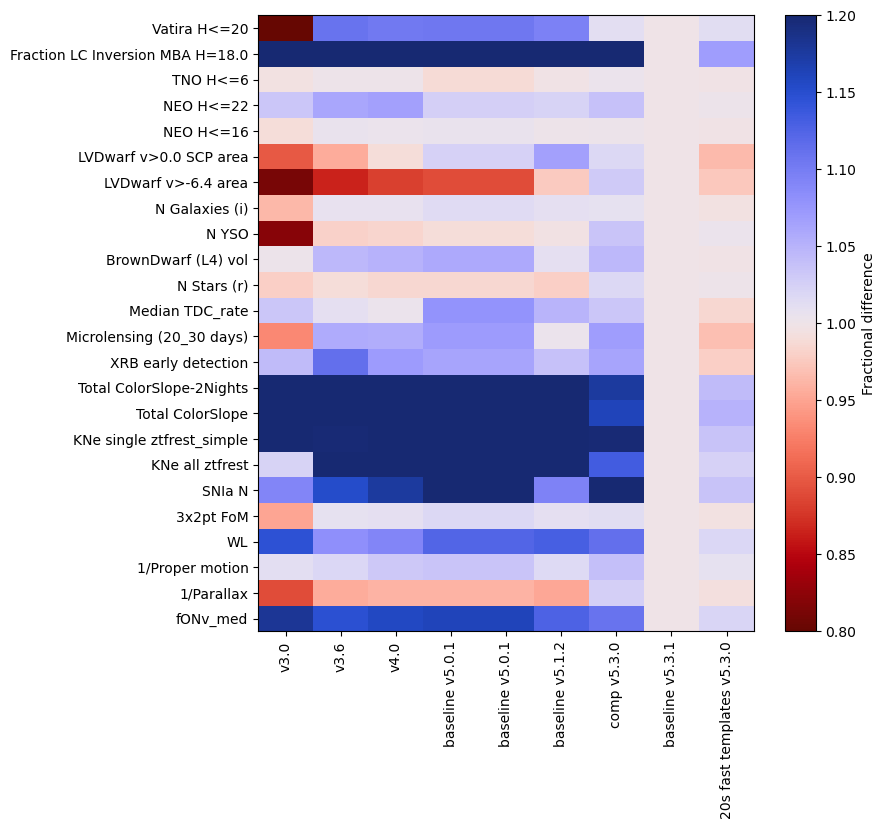
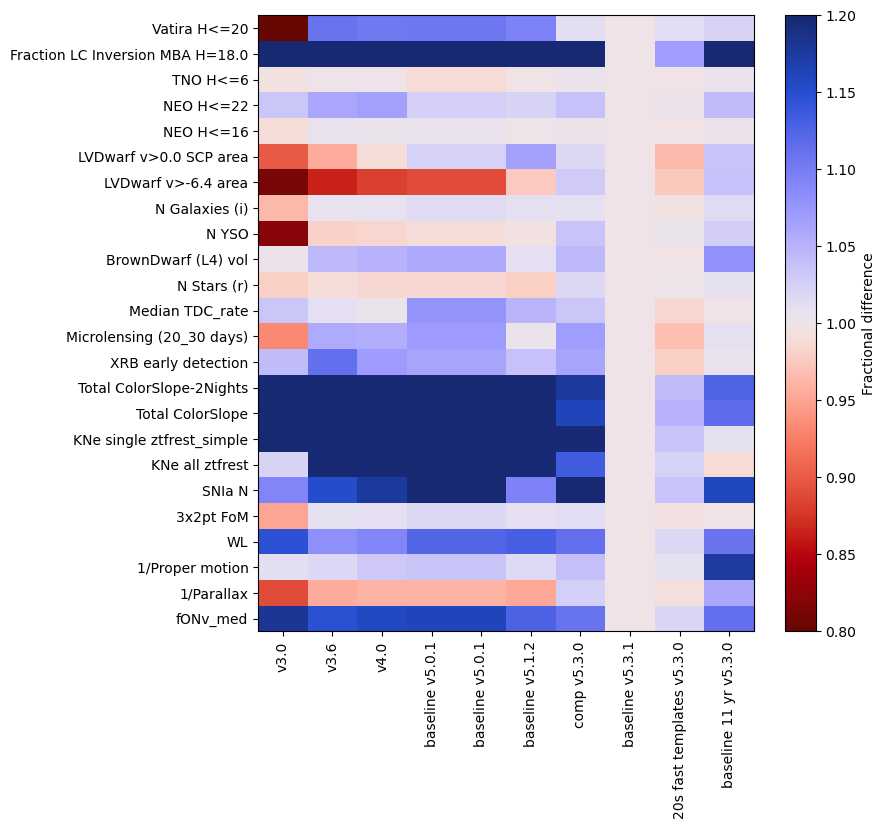
Updates from Overleaf

diff --git a/PSTN-057.tex b/PSTN-057.tex
@@ -122,7 +122,7 @@ Beyond these updates, the \texttt{baseline\_v5.3.0} observing strategy implement
  \autoref{fig:performance} shows the performance of the proposed \texttt{baseline\_v5.3} for a core set of selected science-driven metrics (the extended set of metrics used by the SCOC for its deliberation includes hundreds), compared to earlier simulations of the LSST survey starting with \texttt{baseline\_v3.0}, which implements the recommendation in PSTN-055; \texttt{baseline\_v3.6} introduces more realistic downtime expectations in Y1 and slew jerk; \texttt{baseline\_v4.0} implements the recommendation in PSTN-056; \texttt{baseline\_v5.0.1} uses single 30 second snaps as opposed to 2x15 second exposures (PSTN-056 recommendation xv), includes the ``ocean'' Deep Drilling Strategy (see \autoref{sec:recommendation} \#5). Additionally, starting with \texttt{baseline\_v5.0.1} all \texttt{OpSims} reflect small software changes in \texttt{rubin\_scheduler} (see post on LSST community forum for details on these \texttt{OpSims}\footnote{\url{https://community.lsst.org/t/release-of-v5-0-simulations/11114}}).
  \texttt{baseline\_v5.1.2} introduces the template tier observing mode (described in \autoref{sec:recommendation}, \#1), and is otherwise consistent with \texttt{baseline\_v5.0.1}; \texttt{comp\_v5.3} assumes the same sky availability as \texttt{baseline\_v5.0}, but implements the template tier in pairs in different filters (\autoref{sec:recommendation}, \#2), and DDF observing schema (\autoref{sec:recommendation}, \#4 \& 5) as \texttt{baseline\_v5.3}. This simulation is made available to demonstrate that the specific strategy choices recommended in this note are not \emph{per sè} causing any scientific losses, rather they generate gains in most metrics, and the lower performance of \texttt{baseline\_v5.3} as compared to earlier baselines is in fact entirely driven by lower sky availability. Finally, \texttt{20s fast templates\_v5.3} implements the shorter exposure time for the template tier observations (\autoref{sec:recommendation}, \#3).
 
-\autoref{fig:nvisits} shows the coverage of the LSST footprint as a function of the number of visits (both the median number of visits over the given area and the minimum number of visits acquired at any point in the given area). SRD minimum and goal requirements are marked. Here, we include a version of 5.3.1 which extends LSST to 11 years to highlight what can be recovered with an extension of the survey while keeping the survey strategy as designed.
+\autoref{fig:nvisits} shows the coverage of the LSST footprint as a function of the minimum number of visits acquired at any point in hte given area. SRD minimum and goal requirements are marked. Here, we include a version of 5.3.1 which extends LSST to 11 years to highlight what can be recovered with an extension of the survey while keeping the survey strategy as designed.
 
 
 
@@ -130,7 +130,7 @@ Beyond these updates, the \texttt{baseline\_v5.3.0} observing strategy implement
 \begin{figure}
     \centering
     %\includegraphics[width=0.5\linewidth]{figures/opsimperformance.png}
-    \includegraphics[width=0.5\linewidth]{figures/scocgrid.png}
+    \includegraphics[width=0.8\linewidth]{figures/scocgrid.png}
     \caption{Performance of the presently recommended strategy compared to previous baselines. The plot compares the performance of selected metrics (labeled along the $y$ axis) across baseline simulations (along the $x$ axis) from \texttt{baseline\_v3} through \texttt{baseline\_v5.3} and its short-template exposure implementation (see \autoref{sec:recommendation}). The details of each \opsim\ are included in \autoref{sec:opsims}. In this plot, \texttt{baseline\_v5.3} is selected as the reference (\ie its performance is set to 1 for all metrics) and the performances of all other \texttt{OpSims} are shown relative to that. Blue colors indicate a positive metric value, \ie an improvement. 
     Red colors indicate a performance drop with respect to the reference \opsim . The reduced sky time availability drives the performance loss in \texttt{baseline\_v5.3}. Note the stretch of the colormap: in this heatmap, the darker blues indicate a ≥10\% improvement, and the darkest reds a ≥10\% drop. Several metrics, in particular the ones measuring time domain phenomena (\texttt{color-slope} metrics that generally measure our ability to identify anomalies, kilonovae metrics, \texttt{KNe}, and the supernova \texttt{SNIa N} metric), solar system lightcurves characterization metrics (\texttt{Fraction LC Inversion MBA H=18.0}), but also weak lensing (\texttt{WL}) and the number of visits \texttt{fONv\_med}, are impacted by 10\% or more and are saturated in this plot.   The introduction of shorter template exposures (\texttt{20s fast templates\_v5.3}) has a modest impact on most metrics and an overall positive impact on most time domain related metrics, recovering some performance for most metrics that had been most impacted by the reduced sky availability. However, none of these metrics include a concept of template readiness, so the advantage of the earlier availability of templates and of increased template completeness in Y1 is not represented in this plot.}
     \label{fig:performance}
@@ -138,7 +138,7 @@ Beyond these updates, the \texttt{baseline\_v5.3.0} observing strategy implement
 
 \begin{figure}
     \centering
-    \includegraphics[width=0.9\linewidth]{figures/areaminvis.png}
+    \includegraphics[width=1\linewidth]{figures/areaminvis.png}
     \caption{The LSST footprint area as a function of the minimum number of visits covering that area %(solid lines) or the minimum number of visits over the same area (dotted lines) 
     at the end of the LSST. Vertical and horizontal shaded regions represent the range between minimum and design LSST requirements (LPM-17) for the number of visits and sky area, respectively. A selected subset of \opsim s as described in section \autoref{sec:opsims} is included. See \autoref{sec:opsims} and \autoref{fig:performance} for details on each included simulation.}
     \label{fig:nvisits}